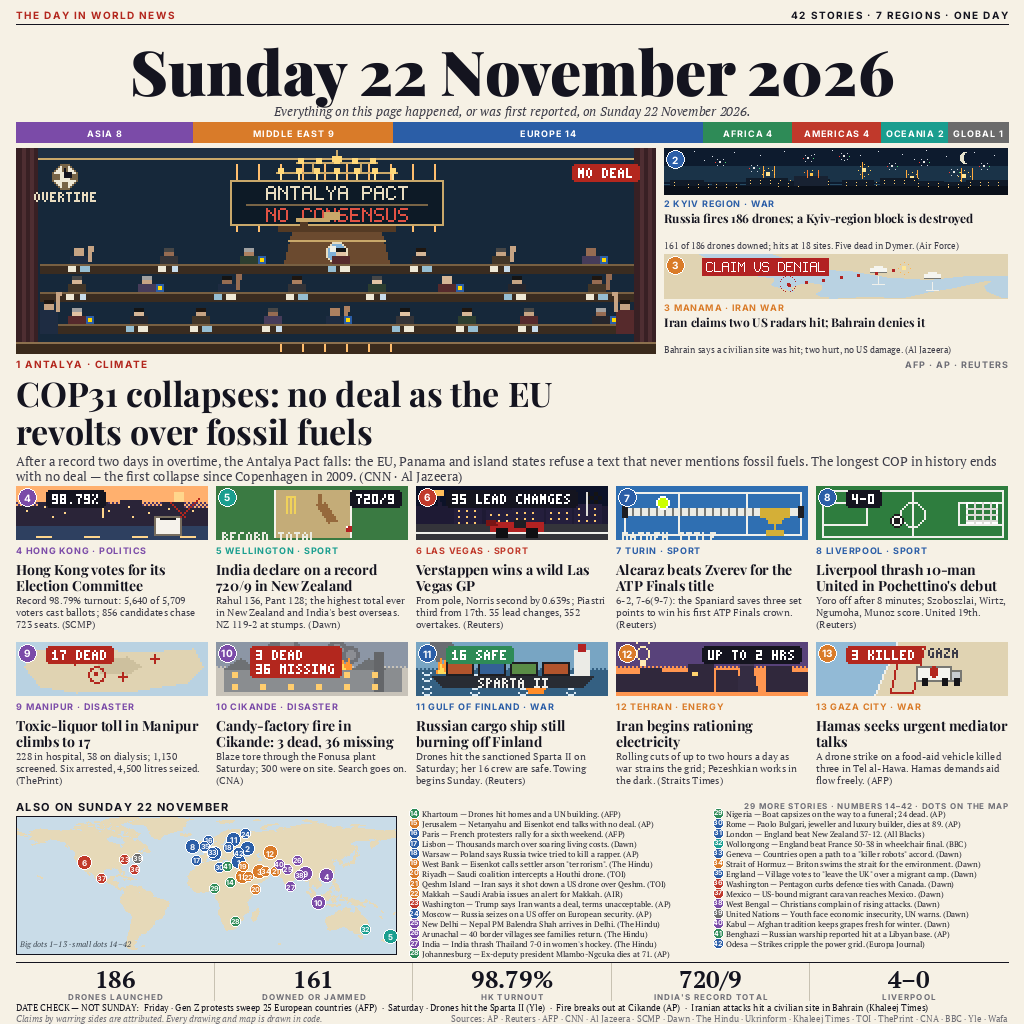
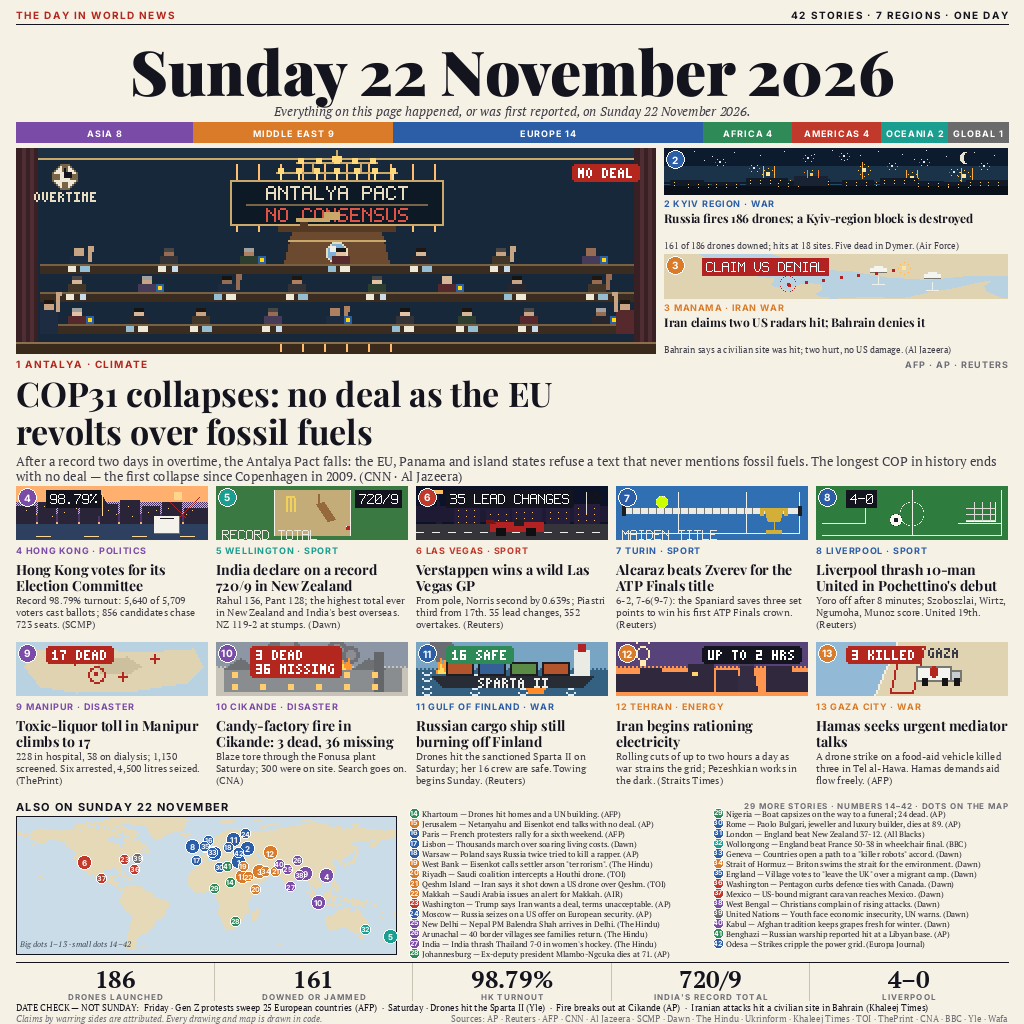
pixel v3 batch 2: hk + cricket + f1 + tennis + football as separate high-res PNGs

diff --git a/render.py b/render.py
@@ -527,161 +527,33 @@ def paint_bahrain(d, box):
 
 
 def paint_hk(d, box):
-    """Hong Kong at dusk: skyline, water, ballot box — pixel art."""
-    im, g = px_canvas(96, 27, (255, 176, 110))
-    # dusk bands: orange, checkerboard seam, purple, water
-    for yy in range(8, 14):
-        for xx in range(96):
-            if (xx + yy) % 2 == 0:
-                g.point((xx, yy), fill=(74, 52, 104))
-    g.rectangle([0, 14, 96, 18], fill=(74, 52, 104))
-    g.rectangle([0, 19, 96, 27], fill=(46, 64, 96))
-    # sun, top right
-    g.rectangle([79, 3, 83, 7], fill=(255, 214, 140))
-    # skyline silhouettes
-    for fx, fh, fw in [(0, 9, 10), (11, 11, 9), (21, 8, 10), (32, 15, 9),
-                       (42, 10, 9), (52, 12, 10), (63, 9, 9), (73, 11, 10),
-                       (84, 8, 12)]:
-        g.rectangle([fx, 19 - fh, fx + fw, 19], fill=(42, 36, 56))
-    # Bank of China: triangular top
-    g.polygon([(38, 15), (43, 4), (48, 15)], fill=(42, 36, 56))
-    g.rectangle([43, 4, 43, 15], fill=(255, 214, 140))
-    # lit windows
-    for wx, wy in [(5, 12), (14, 10), (24, 13), (35, 9), (46, 12), (56, 10),
-                   (66, 13), (76, 11), (88, 12), (18, 15), (58, 15), (80, 15)]:
-        g.point((wx, wy), fill=(255, 214, 140))
-    # water glints
-    for wx in (10, 34, 58, 82):
-        g.rectangle([wx, 25, wx + 7, 25], fill=(255, 214, 140))
-    # ballot box, front right
-    g.rectangle([69, 15, 82, 24], fill=(245, 242, 235), outline=(120, 110, 95))
-    g.rectangle([72, 16, 79, 16], fill=INK)
-    for i in range(8):
-        g.point((77 + i, 8 + i), fill=RED)
-    for i in range(10):
-        g.point((82 + i, 15 - i), fill=RED)
-    # turnout chip
-    px_chip(g, 15, 2, "98.79%", (20, 20, 31))
-    px_paste(d, box, im)
+    """Hong Kong at dusk — pre-rendered high-res pixel scene (scenes.py)."""
+    _scene(d, box, "hk.png")
+
 
 
 def paint_cricket(d, box):
-    """Wellington: green outfield, pitch, stumps, bat and ball — pixel art."""
-    im, g = px_canvas(96, 27, (58, 122, 66))
-    g.ellipse([-10, -15, 106, 42], outline=(230, 235, 220))
-    # pitch strip
-    g.rectangle([29, 2, 67, 25], fill=(196, 172, 120))
-    g.rectangle([29, 2, 29, 25], fill=(245, 242, 235))
-    g.rectangle([67, 2, 67, 25], fill=(245, 242, 235))
-    # stumps + bails
-    for dx in (0, 2, 4):
-        g.rectangle([35 + dx, 6, 35 + dx, 13], fill=(240, 210, 90))
-    g.rectangle([35, 5, 39, 5], fill=(240, 210, 90))
-    # bat + ball
-    g.polygon([(50, 9), (54, 8), (60, 17), (56, 18)], fill=(150, 105, 60))
-    g.rectangle([51, 4, 52, 9], fill=(150, 105, 60))
-    g.rectangle([65, 20, 67, 22], fill=(178, 34, 34))
-    g.point((65, 20), fill=(255, 255, 255))
-    # scoreboard chip top right
-    px_chip(g, 96 - 3 - (px_text_w("720/9", FONT35) + 7), 2, "720/9",
-            (20, 20, 31))
-    px_text(g, 3, 23, "RECORD TOTAL", FONT35, (235, 235, 225))
-    px_paste(d, box, im)
+    """Wellington cricket — pre-rendered high-res pixel scene (scenes.py)."""
+    _scene(d, box, "cricket.png")
+
 
 
 def paint_f1(d, box):
-    """Las Vegas at night: Stratosphere, hotel blocks, track, car — pixel art."""
-    im, g = px_canvas(96, 27, (12, 18, 40))
-    g.rectangle([0, 10, 96, 18], fill=(30, 26, 52))
-    # Stratosphere needle
-    g.polygon([(10, 19), (11, 3), (13, 19)], fill=(30, 26, 52))
-    g.rectangle([9, 2, 13, 4], fill=(255, 190, 90))
-    # hotel blocks with lit windows
-    for fx, fh, fw in [(19, 9, 13), (35, 7, 12), (48, 11, 15), (65, 8, 12),
-                       (79, 10, 13)]:
-        g.rectangle([fx, 19 - fh, fx + fw, 19], fill=(36, 30, 60))
-        for wy in range(3):
-            for wx in range(3):
-                g.point((fx + 2 + wx * 4, 19 - fh + 2 + wy * 3),
-                        fill=(255, 200, 110))
-    # track
-    g.rectangle([0, 19, 96, 27], fill=(52, 52, 58))
-    g.rectangle([0, 23, 96, 23], fill=(240, 240, 235))
-    for tx in range(0, 12):
-        g.rectangle([tx * 8, 23, tx * 8 + 4, 23], fill=(240, 240, 235))
-    # race car
-    cx, cy = 50, 21
-    g.rectangle([cx - 13, cy - 3, cx + 13, cy + 1], fill=(178, 34, 34))
-    g.polygon([(cx - 15, cy - 4), (cx - 11, cy - 4), (cx - 10, cy - 2),
-               (cx - 15, cy - 2)], fill=(120, 20, 20))
-    g.rectangle([cx - 10, cy, cx - 5, cy + 4], fill=(15, 15, 18))
-    g.rectangle([cx + 5, cy, cx + 10, cy + 4], fill=(15, 15, 18))
-    g.rectangle([cx - 1, cy - 4, cx + 4, cy - 1], fill=(30, 30, 36))
-    # checkered flag (shifted right so the wide pixel chip clears it)
-    fx0, fy0 = 85, 3
-    for r in range(3):
-        for c in range(4):
-            if (r + c) % 2 == 0:
-                g.rectangle([fx0 + c * 2, fy0 + r * 2,
-                             fx0 + c * 2 + 1, fy0 + r * 2 + 1],
-                            fill=(20, 20, 20))
-    g.rectangle([fx0, fy0, fx0, fy0 + 11], fill=(220, 220, 215))
-    # chip
-    px_chip(g, 15, 2, "35 LEAD CHANGES", (20, 20, 31))
-    px_paste(d, box, im)
+    """Las Vegas F1 — pre-rendered high-res pixel scene (scenes.py)."""
+    _scene(d, box, "f1.png")
+
 
 
 def paint_tennis(d, box):
-    """Turin: blue court, net, ball, trophy — pixel art."""
-    im, g = px_canvas(96, 27, (47, 111, 178))
-    g.rectangle([4, 3, 92, 24], outline=(240, 240, 235))
-    g.rectangle([4, 13, 92, 13], fill=(240, 240, 235))
-    g.rectangle([31, 3, 31, 24], fill=(240, 240, 235))
-    g.rectangle([65, 3, 65, 24], fill=(240, 240, 235))
-    # net
-    g.rectangle([4, 11, 92, 14], fill=(235, 235, 228))
-    for nx in range(8, 88, 4):
-        g.rectangle([nx, 11, nx, 14], fill=(120, 120, 115))
-    g.rectangle([3, 10, 5, 15], fill=(30, 30, 34))
-    g.rectangle([91, 10, 93, 15], fill=(30, 30, 34))
-    # ball
-    g.ellipse([20, 5, 26, 11], fill=(204, 255, 0), outline=(255, 255, 255))
-    g.point((23, 5), fill=(255, 255, 255))
-    g.point((23, 11), fill=(255, 255, 255))
-    # trophy
-    tx, ty = 79, 17
-    g.polygon([(tx - 5, ty - 6), (tx + 5, ty - 6), (tx + 3, ty + 1),
-               (tx - 3, ty + 1)], fill=(212, 175, 55))
-    g.rectangle([tx - 7, ty - 6, tx - 5, ty - 2], fill=(212, 175, 55))
-    g.rectangle([tx + 5, ty - 6, tx + 7, ty - 2], fill=(212, 175, 55))
-    g.rectangle([tx, ty + 1, tx, ty + 5], fill=(212, 175, 55))
-    g.rectangle([tx - 4, ty + 5, tx + 4, ty + 7], fill=(212, 175, 55))
-    px_text(g, 3, 23, "MAIDEN TITLE", FONT35, (235, 235, 225))
-    px_paste(d, box, im)
+    """Turin tennis — pre-rendered high-res pixel scene (scenes.py)."""
+    _scene(d, box, "tennis.png")
+
 
 
 def paint_football(d, box):
-    """Anfield: green pitch, goal, ball, 4-0 — pixel art."""
-    im, g = px_canvas(96, 27, (46, 125, 62))
-    g.rectangle([3, 2, 93, 25], outline=(240, 240, 235))
-    g.rectangle([48, 2, 48, 25], fill=(240, 240, 235))
-    g.ellipse([42, 8, 54, 20], outline=(240, 240, 235))
-    g.rectangle([3, 8, 25, 19], outline=(240, 240, 235))
-    g.rectangle([71, 8, 93, 19], outline=(240, 240, 235))
-    # goal + net
-    gx0, gy0 = 75, 8
-    g.rectangle([gx0, gy0, gx0 + 15, gy0 + 10], outline=(255, 255, 255))
-    for i in range(1, 4):
-        g.rectangle([gx0 + i * 4, gy0, gx0 + i * 4, gy0 + 10],
-                    fill=(220, 220, 215))
-        g.rectangle([gx0, gy0 + i * 3, gx0 + 15, gy0 + i * 3],
-                    fill=(220, 220, 215))
-    # ball
-    g.ellipse([37, 14, 43, 20], fill=(250, 250, 245), outline=(30, 30, 30))
-    g.rectangle([39, 16, 41, 18], fill=(30, 30, 30))
-    # scoreboard chip
-    px_chip(g, 15, 2, "4–0", (20, 20, 31))
-    px_paste(d, box, im)
+    """Anfield football — pre-rendered high-res pixel scene (scenes.py)."""
+    _scene(d, box, "football.png")
+
 
 
 def paint_manipur(d, box):

diff --git a/scenes.py b/scenes.py
@@ -315,9 +315,167 @@ def scene_bahrain():
     return im
 
 
+def scene_hk():
+    """Hong Kong at dusk: skyline, water, ballot box. Slot 192x54."""
+    im, g = cv(192, 54, (255, 176, 110))
+    # dusk bands: orange, checkerboard seam, purple, water
+    for yy in range(16, 28):
+        for xx in range(192):
+            if (xx + yy) % 2 == 0:
+                P(g, xx, yy, (74, 52, 104))
+    R(g, 0, 28, 192, 8, (74, 52, 104))
+    R(g, 0, 38, 192, 16, (46, 64, 96))
+    # sun, top right
+    R(g, 158, 6, 8, 8, (255, 214, 140))
+    # skyline silhouettes
+    for fx, fh, fw in [(0, 18, 20), (22, 22, 18), (42, 16, 20), (64, 30, 18),
+                       (84, 20, 18), (104, 24, 20), (126, 18, 18),
+                       (146, 22, 20), (168, 16, 24)]:
+        R(g, fx, 38 - fh, fw, fh, (42, 36, 56))
+    # Bank of China: triangular top with a gold spine
+    PG(g, [(76, 30), (86, 8), (96, 30)], (42, 36, 56))
+    R(g, 86, 8, 1, 22, (255, 214, 140))
+    # lit windows
+    for wx, wy in [(10, 24), (28, 20), (48, 26), (70, 18), (92, 24),
+                   (112, 20), (132, 26), (152, 22), (176, 24), (36, 30),
+                   (116, 30), (160, 30), (20, 28), (60, 22), (100, 28),
+                   (140, 24), (170, 28)]:
+        P(g, wx, wy, (255, 214, 140))
+    # water glints
+    for wx in (20, 68, 116, 164):
+        R(g, wx, 50, 15, 1, (255, 214, 140))
+    # ballot box, front right
+    R(g, 138, 30, 26, 18, (245, 242, 235), o=(120, 110, 95))
+    R(g, 144, 32, 14, 1, INK)
+    for i in range(16):
+        P(g, 154 + i, 16 + i, RED)
+    for i in range(20):
+        P(g, 164 + i, 30 - i, RED)
+    # turnout chip
+    CHIP(g, 30, 4, "98.79%", DARK)
+    return im
+
+
+def scene_cricket():
+    """Wellington: green outfield, pitch, stumps, bat and ball. Slot 192x54."""
+    im, g = cv(192, 54, (58, 122, 66))
+    EL(g, -20, -30, 212, 84, None, o=(230, 235, 220))
+    # pitch strip
+    R(g, 58, 4, 76, 46, (196, 172, 120))
+    R(g, 58, 4, 1, 46, (245, 242, 235))
+    R(g, 134, 4, 1, 46, (245, 242, 235))
+    # stumps + bails
+    for dx in (0, 4, 8):
+        R(g, 70 + dx, 12, 2, 14, (240, 210, 90))
+    R(g, 70, 10, 9, 2, (240, 210, 90))
+    # bat + ball
+    PG(g, [(100, 18), (108, 16), (120, 34), (112, 36)], (150, 105, 60))
+    R(g, 102, 8, 2, 10, (150, 105, 60))
+    R(g, 130, 40, 4, 4, (178, 34, 34))
+    P(g, 130, 40, WHITE)
+    # scoreboard chip top right
+    CHIP(g, 192 - 6 - (TXT_W("720/9", F7) + 8), 4, "720/9", DARK)
+    TXT(g, 6, 44, "RECORD TOTAL", F7, (235, 235, 225))
+    return im
+
+
+def scene_f1():
+    """Las Vegas at night: Stratosphere, hotel blocks, track, car. Slot 192x54."""
+    im, g = cv(192, 54, (12, 18, 40))
+    R(g, 0, 20, 192, 16, (30, 26, 52))
+    # Stratosphere needle
+    PG(g, [(20, 38), (22, 6), (26, 38)], (30, 26, 52))
+    R(g, 18, 4, 9, 4, (255, 190, 90))
+    # hotel blocks with lit windows
+    for fx, fh, fw in [(38, 18, 26), (70, 14, 24), (96, 22, 30),
+                       (130, 16, 24), (158, 20, 26)]:
+        R(g, fx, 38 - fh, fw, fh, (36, 30, 60))
+        for wy in range(3):
+            for wx in range(3):
+                P(g, fx + 4 + wx * 8, 38 - fh + 4 + wy * 6, (255, 200, 110))
+    # track
+    R(g, 0, 38, 192, 16, (52, 52, 58))
+    for tx in range(12):
+        R(g, tx * 16, 46, 8, 1, (240, 240, 235))
+    # race car
+    cx, cy = 100, 42
+    R(g, cx - 26, cy - 6, 54, 10, (178, 34, 34))
+    PG(g, [(cx - 30, cy - 8), (cx - 22, cy - 8), (cx - 20, cy - 4),
+           (cx - 30, cy - 4)], (120, 20, 20))
+    R(g, cx - 20, cy, 10, 8, (15, 15, 18))
+    R(g, cx + 10, cy, 10, 8, (15, 15, 18))
+    R(g, cx - 2, cy - 8, 10, 6, (30, 30, 36))
+    # checkered flag
+    fx0, fy0 = 170, 6
+    for r in range(3):
+        for c in range(4):
+            if (r + c) % 2 == 0:
+                R(g, fx0 + c * 4, fy0 + r * 4, 4, 4, (20, 20, 20))
+    R(g, fx0, fy0, 1, 22, (220, 220, 215))
+    # chip
+    CHIP(g, 30, 4, "35 LEAD CHANGES", DARK)
+    return im
+
+
+def scene_tennis():
+    """Turin: blue court, net, ball, trophy. Slot 192x54."""
+    im, g = cv(192, 54, (47, 111, 178))
+    R(g, 8, 6, 176, 42, None, o=(240, 240, 235))
+    R(g, 8, 26, 176, 1, (240, 240, 235))
+    R(g, 62, 6, 1, 42, (240, 240, 235))
+    R(g, 130, 6, 1, 42, (240, 240, 235))
+    # net
+    R(g, 8, 22, 176, 6, (235, 235, 228))
+    for nx in range(16, 176, 8):
+        R(g, nx, 22, 1, 6, (120, 120, 115))
+    R(g, 6, 20, 4, 10, (30, 30, 34))
+    R(g, 182, 20, 4, 10, (30, 30, 34))
+    # ball
+    EL(g, 40, 10, 52, 22, (204, 255, 0), o=WHITE)
+    P(g, 46, 10, WHITE)
+    P(g, 46, 22, WHITE)
+    # trophy
+    tx, ty = 158, 34
+    PG(g, [(tx - 10, ty - 12), (tx + 10, ty - 12), (tx + 6, ty + 2),
+           (tx - 6, ty + 2)], (212, 175, 55))
+    R(g, tx - 14, ty - 12, 4, 8, (212, 175, 55))
+    R(g, tx + 10, ty - 12, 4, 8, (212, 175, 55))
+    R(g, tx, ty + 2, 1, 8, (212, 175, 55))
+    R(g, tx - 8, ty + 10, 16, 4, (212, 175, 55))
+    TXT(g, 6, 44, "MAIDEN TITLE", F7, (235, 235, 225))
+    return im
+
+
+def scene_football():
+    """Anfield: green pitch, goal, ball, 4-0. Slot 192x54."""
+    im, g = cv(192, 54, (46, 125, 62))
+    R(g, 6, 4, 180, 46, None, o=(240, 240, 235))
+    R(g, 96, 4, 1, 46, (240, 240, 235))
+    EL(g, 84, 16, 108, 40, None, o=(240, 240, 235))
+    R(g, 6, 16, 44, 22, None, o=(240, 240, 235))
+    R(g, 142, 16, 44, 22, None, o=(240, 240, 235))
+    # goal + net
+    gx0, gy0 = 150, 16
+    R(g, gx0, gy0, 30, 20, None, o=WHITE)
+    for i in range(1, 4):
+        R(g, gx0 + i * 8, gy0, 1, 20, (220, 220, 215))
+        R(g, gx0, gy0 + i * 6, 30, 1, (220, 220, 215))
+    # ball
+    EL(g, 74, 28, 86, 40, (250, 250, 245), o=(30, 30, 30))
+    R(g, 78, 32, 4, 4, (30, 30, 30))
+    # scoreboard chip
+    CHIP(g, 30, 4, "4–0", DARK)
+    return im
+
+
 SCENES = {
     "drones.png": (344, 47, scene_drones),
     "bahrain.png": (344, 45, scene_bahrain),
+    "hk.png": (192, 54, scene_hk),
+    "cricket.png": (192, 54, scene_cricket),
+    "f1.png": (192, 54, scene_f1),
+    "tennis.png": (192, 54, scene_tennis),
+    "football.png": (192, 54, scene_football),
 }
 
 
